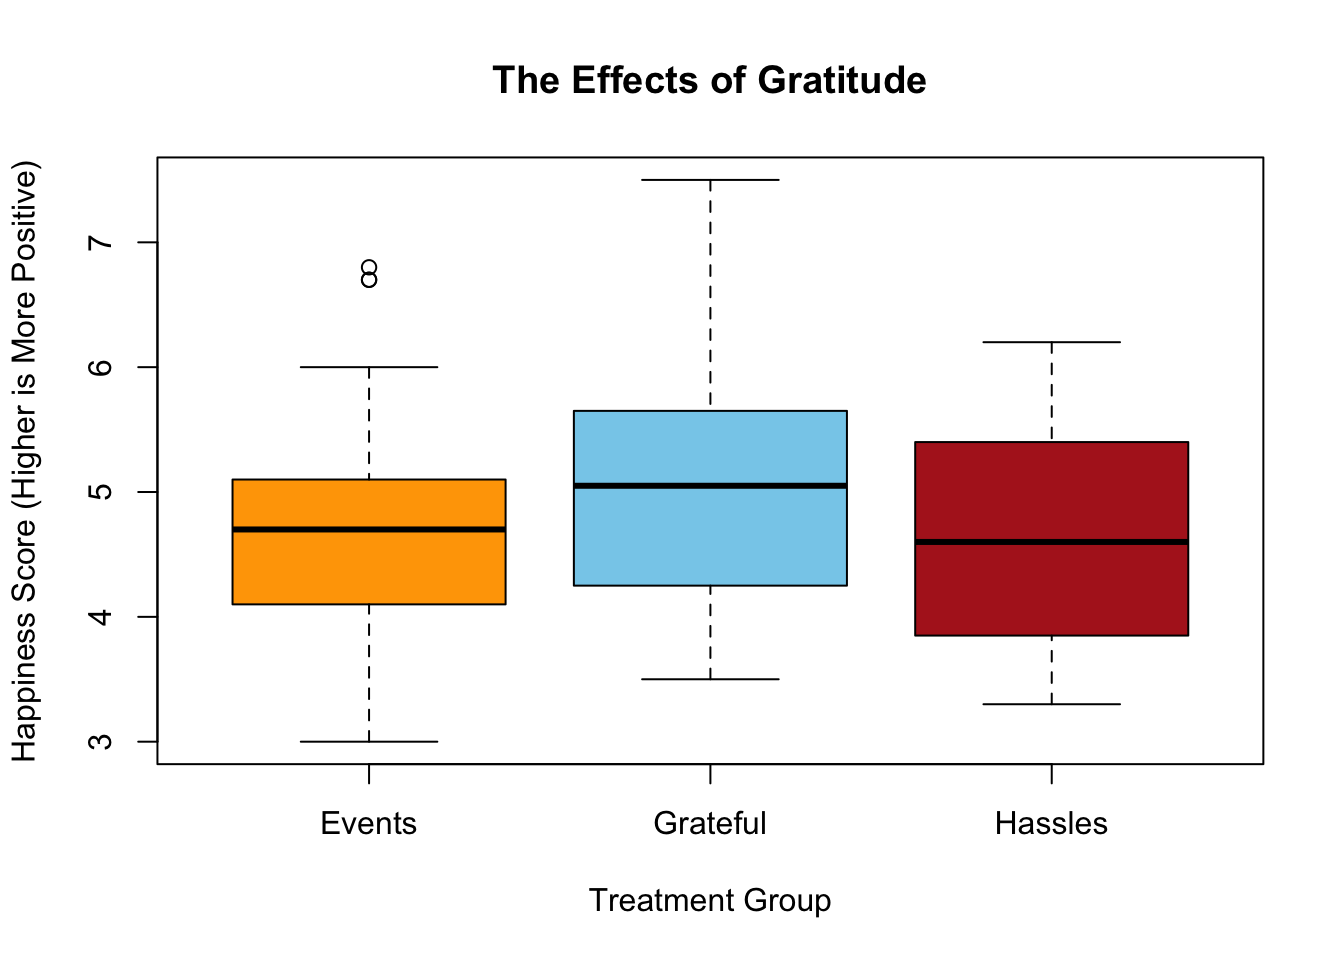
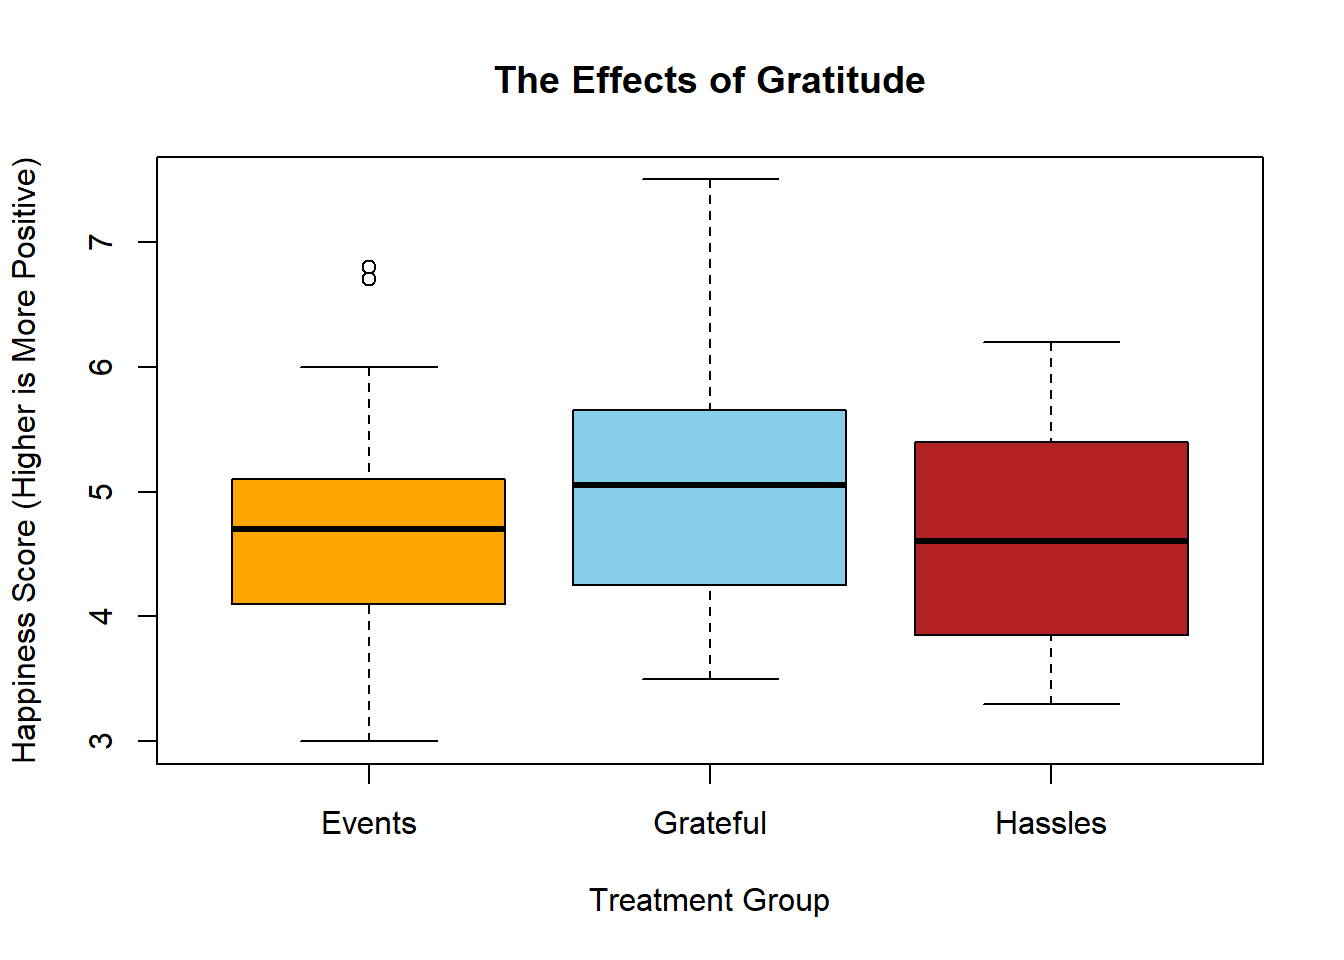
knitted lesson 14

diff --git a/docs/Lesson14.html b/docs/Lesson14.html
@@ -13,8 +13,8 @@
 
 <title>Lesson 14: Inference for Several Means (ANOVA)</title>
 
-<script src="site_libs/header-attrs-2.7/header-attrs.js"></script>
-<script src="site_libs/jquery-1.11.3/jquery.min.js"></script>
+<script src="site_libs/header-attrs-2.11/header-attrs.js"></script>
+<script src="site_libs/jquery-3.6.0/jquery-3.6.0.min.js"></script>
 <meta name="viewport" content="width=device-width, initial-scale=1" />
 <link href="site_libs/bootstrap-3.3.5/css/cerulean.min.css" rel="stylesheet" />
 <script src="site_libs/bootstrap-3.3.5/js/bootstrap.min.js"></script>
@@ -447,7 +447,7 @@ $(document).ready(function () {
 </td>
 <td>
 <p>
-President Gordon B. Hinckley said, “My plea is that we stop seeking out the storms and enjoy more fully the sunlight. I am suggesting that as we go through life, we ‘accentuate the positive.’ I am asking that we look a little deeper for the good, that we still our voices of insult and sarcasm, that we more generously compliment and endorse virtue and effort” (<em>Standing for Something</em>, 2000, p.101).
+President Gordon B. Hinckley said, "My plea is that we stop seeking out the storms and enjoy more fully the sunlight. I am suggesting that as we go through life, we ‘accentuate the positive.’ I am asking that we look a little deeper for the good, that we still our voices of insult and sarcasm, that we more generously compliment and endorse virtue and effort" (<em>Standing for Something</em>, 2000, p.101).
 </p>
 </td>
 </tr>
@@ -565,27 +565,23 @@ R Instructions
 <div class="Software">
 <p><strong>To compute numerical summaries for several groups:</strong></p>
 <ul>
-<li>Read in the data: <a href="./Data/Gratitude.xlsx">Gratitude.xlsx</a>. (Review of <a href="RHelp.html#reading-in-the-data">reading in data</a>.)</li>
+<li>Read in the data: <a href="./Data/gratitude.xlsx">gratitude.xlsx</a>. (Review of <a href="RHelp.html#reading-in-the-data">reading in data</a>.)</li>
 <li>Load <code>library(mosaic)</code>. (If this fails for you, try running <code>install.packages("mosaic")</code> and then re-run the <code>library(mosaic)</code> command.)</li>
-<li>Use the <code>favstats(...)</code> function with the quantitative data column listed first, followed by a <code>~</code>, followed by the categorical data column. Use the back tick mark <code>`</code> to surround column names that have spaces in them, like <code>`Happiness Score`</code> and <code>`Treatment Group`</code>.</li>
+<li>Use the <code>favstats(...)</code> function with the quantitative data column listed first, followed by a <code>~</code>, followed by the categorical data column. Use the back tick mark <code>`</code> to surround column names that have spaces in them, like <code>happiness</code> and <code>treatment</code>.</li>
 </ul>
 <pre class="r"><code>library(mosaic) 
-favstats(Gratitude$`Happiness Score` ~ Gratitude$`Treatment Group`)</code></pre>
-<pre><code>  Gratitude$`Treatment Group` min    Q1 median    Q3 max     mean        sd  n
-1                      Events 3.0 4.100   4.70 5.100 6.8 4.660000 0.8483071 65
-2                    Grateful 3.5 4.275   5.05 5.625 7.5 5.050000 0.9443231 64
-3                     Hassles 3.3 3.850   4.60 5.400 6.2 4.674603 0.8320143 63
-  missing
-1       0
-2       0
-3       0</code></pre>
+favstats(gratitude$happiness ~ gratitude$treatment)</code></pre>
+<pre><code>  gratitude$treatment min    Q1 median    Q3 max     mean        sd  n missing
+1              Events 3.0 4.100   4.70 5.100 6.8 4.660000 0.8483071 65       0
+2            Grateful 3.5 4.275   5.05 5.625 7.5 5.050000 0.9443231 64       0
+3             Hassles 3.3 3.850   4.60 5.400 6.2 4.674603 0.8320143 63       0</code></pre>
 <p><strong>To make an appropriate graph to illustrate the data:</strong></p>
 <ul>
 <li>Use the <code>boxplot(...)</code> function with the quantitative data listed first, followed by a <code>~</code>, followed by the categorical data.</li>
 <li>Specify colors using either <code>col="skyblue"</code> to give all boxes the same color, or use <code>col=c("orange","skyblue","firebrick")</code> to give each box a different color. Of course, use any color names you like.</li>
 <li>Specify axes labeling with <code>main="A main title"</code>, <code>xlab="An x-axis label"</code>, and <code>ylab="A y-axis label"</code>.</li>
 </ul>
-<pre class="r"><code>boxplot(Gratitude$`Happiness Score` ~ Gratitude$`Treatment Group`,
+<pre class="r"><code>boxplot(gratitude$happiness ~ gratitude$treatment,
         col=c(&quot;orange&quot;,&quot;skyblue&quot;,&quot;firebrick&quot;), 
         main=&quot;The Effects of Gratitude&quot;,
         xlab=&quot;Treatment Group&quot;,
@@ -594,7 +590,7 @@ favstats(Gratitude$`Happiness Score` ~ Gratitude$`Treatment Group`)</code></pre>
 <p><br></p>
 </div>
 <p><br></p>
-<p>Based on the numerical summaries and boxplot, the Gratitude group had a higher life happiness mean score of 5.05 compared ot the other two groups of 4.66 (Events group) and 4.67 (Hassles group). This suggests that perhaps exercising a daily recognition of things one is grateful for can result in greater life satisfaction. However, it is important to first <strong>make inference</strong> before we decide if the data really warrants this conclusion.</p>
+<p>Based on the numerical summaries and boxplot, the gratitude group had a higher life happiness mean score of 5.05 compared ot the other two groups of 4.66 (Events group) and 4.67 (Hassles group). This suggests that perhaps exercising a daily recognition of things one is grateful for can result in greater life satisfaction. However, it is important to first <strong>make inference</strong> before we decide if the data really warrants this conclusion.</p>
 <p><img src="Images/Step4.png"></p>
 <p><strong>Make Inference</strong></p>
 </div>
@@ -606,16 +602,16 @@ R Instructions
 <div class="Software">
 <p>To conduct a test for several means (ANOVA) in R, do the following:</p>
 <ul>
-<li>Read in the data if you haven’t already: <a href="./Data/Gratitude.xlsx">Gratitude.xlsx</a>. (Review of <a href="RHelp.html#reading-in-the-data">reading in data</a>.)</li>
+<li>Read in the data if you haven’t already: <a href="./Data/gratitude.xlsx">gratitude.xlsx</a>. (Review of <a href="RHelp.html#reading-in-the-data">reading in data</a>.)</li>
 <li>Use the <code>aov(...)</code> function and the assignment operator <code>&lt;-</code> to perform and save the results of the test to any name you want to create for the test. Here we use the name <code>gratitude_aov</code>.</li>
 <li>When using the <code>aov(...)</code> function, place the quantitative data first, followed by a <code>~</code>, followed by the categorical data.</li>
 <li>Use the <code>summary(...)</code> function to view the results of the ANOVA test.</li>
 </ul>
-<pre class="r"><code>gratitude_aov &lt;- aov(Gratitude$`Happiness Score` ~ Gratitude$`Treatment Group`)
+<pre class="r"><code>gratitude_aov &lt;- aov(gratitude$happiness ~ gratitude$treatment)
 summary(gratitude_aov)</code></pre>
-<pre><code>                             Df Sum Sq Mean Sq F value Pr(&gt;F)  
-Gratitude$`Treatment Group`   2   6.26   3.130   4.075 0.0185 *
-Residuals                   189 145.16   0.768                 
+<pre><code>                     Df Sum Sq Mean Sq F value Pr(&gt;F)  
+gratitude$treatment   2   6.26   3.130   4.075 0.0185 *
+Residuals           189 145.16   0.768                 
 ---
 Signif. codes:  0 &#39;***&#39; 0.001 &#39;**&#39; 0.01 &#39;*&#39; 0.05 &#39;.&#39; 0.1 &#39; &#39; 1</code></pre>
 <p>In the ANOVA table output summary, you will find</p>
@@ -646,10 +642,10 @@ Signif. codes:  0 &#39;***&#39; 0.001 &#39;**&#39; 0.01 &#39;*&#39; 0.05 &#39;.&
 <ul>
 <li><p>The data are normally distributed in each group.</p>
 <p>We can check this by looking at the boxplots we created previously. If each boxplot is relatively symmetric and there are no major outliers, it is reasonable to conclude that the data are sufficiently normal to proceed with the analysis. We can take this approach because ANOVA is robust to violations of requirements. In other words, results from ANOVA tests are reasonably good even if there are mild to moderate violations of the requirements.</p>
-<p>In looking at the boxplot of the Gratitude data above, we see the median is in the center of each box (it isn’t pressed up against either end of the box) and that the whiskers of each box go out somewhat equally to either side of the box. While there are a couple of outliers in the Events group, and the top whisker for the “Grateful” group is longer than its bottom whisker, this would be considered a very “normally distributed” set of boxplots.</p></li>
+<p>In looking at the boxplot of the gratitude data above, we see the median is in the center of each box (it isn’t pressed up against either end of the box) and that the whiskers of each box go out somewhat equally to either side of the box. While there are a couple of outliers in the Events group, and the top whisker for the “Grateful” group is longer than its bottom whisker, this would be considered a very “normally distributed” set of boxplots.</p></li>
 <li><p>The variances are equal for each group.</p>
 <p>This requirement is checked by examining the variances. To obtain the sample variances we will need to square each of the standard deviations. The rule we will use is: <em>if the largest variance is less than or equal to four times the smallest variance, then we will conclude that the variances are equal.</em></p>
-<p>For the Gratitude study, the three standard deviations were <span class="math inline">\(0.848\)</span>, <span class="math inline">\(0.944\)</span>, and <span class="math inline">\(0.832\)</span> for the Events, Grateful, and Hassles groups, respectively. Squaring these gives the variances as <span class="math inline">\(0.848^2 = 0.719\)</span>, <span class="math inline">\(0.944^2 = 0.891\)</span>, and <span class="math inline">\(0.832^2 = 0.692\)</span>. The largest of these variances is 0.891 and the smallest is 0.692. Dividing the largest by the smallest gives us the value of <span class="math inline">\(0.891/0.692 \approx 1.288\)</span>, which is smaller than 4, so the requirement of equal variances is considered to be satisfied.</p></li>
+<p>For the gratitude study, the three standard deviations were <span class="math inline">\(0.848\)</span>, <span class="math inline">\(0.944\)</span>, and <span class="math inline">\(0.832\)</span> for the Events, Grateful, and Hassles groups, respectively. Squaring these gives the variances as <span class="math inline">\(0.848^2 = 0.719\)</span>, <span class="math inline">\(0.944^2 = 0.891\)</span>, and <span class="math inline">\(0.832^2 = 0.692\)</span>. The largest of these variances is 0.891 and the smallest is 0.692. Dividing the largest by the smallest gives us the value of <span class="math inline">\(0.891/0.692 \approx 1.288\)</span>, which is smaller than 4, so the requirement of equal variances is considered to be satisfied.</p></li>
 </ul>
 <br>
 <div class="message Tip">
